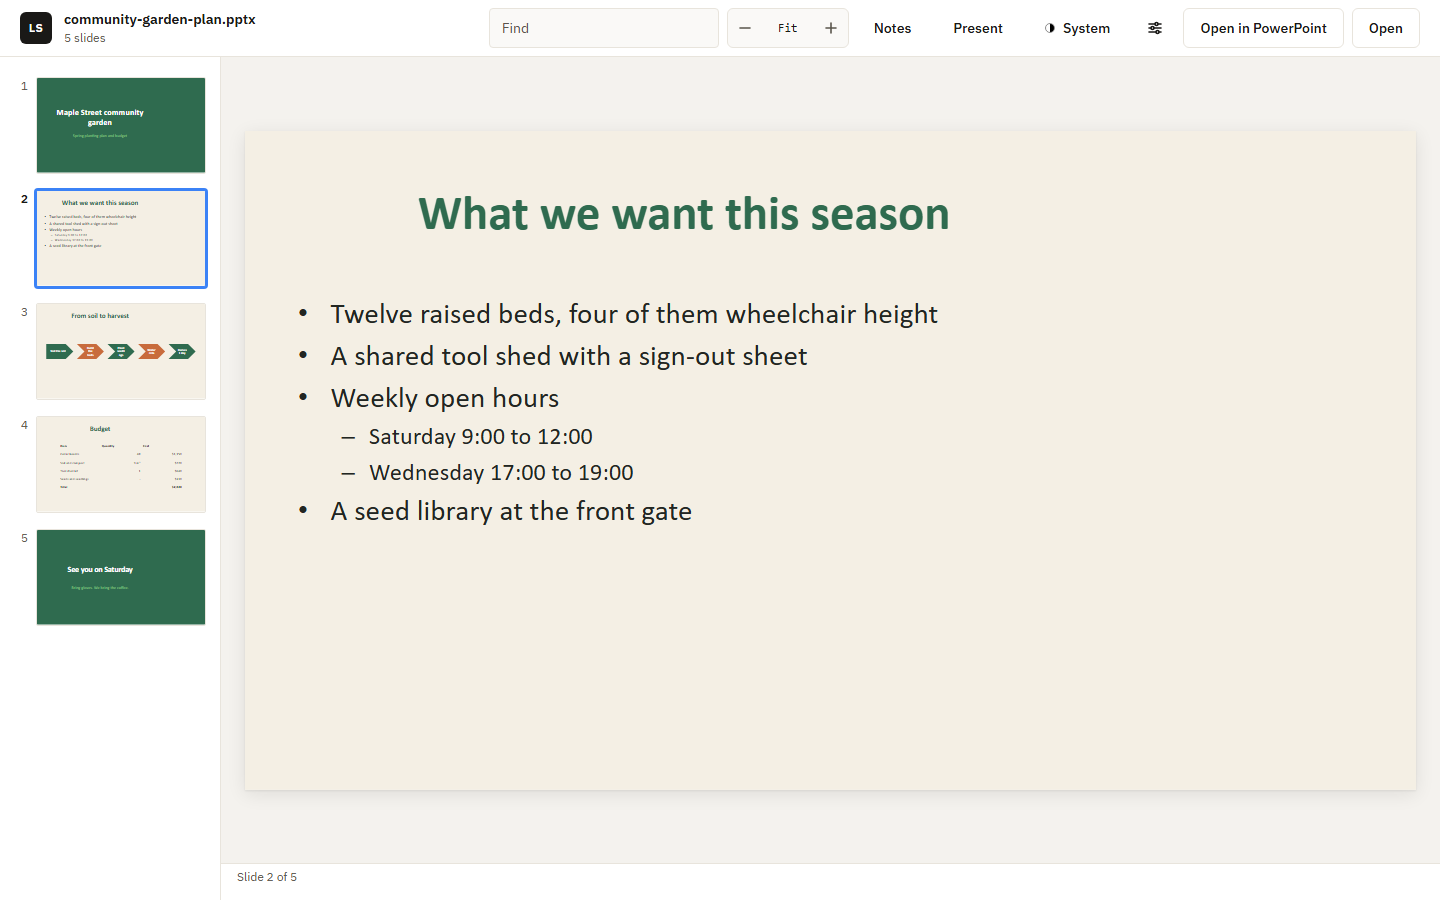
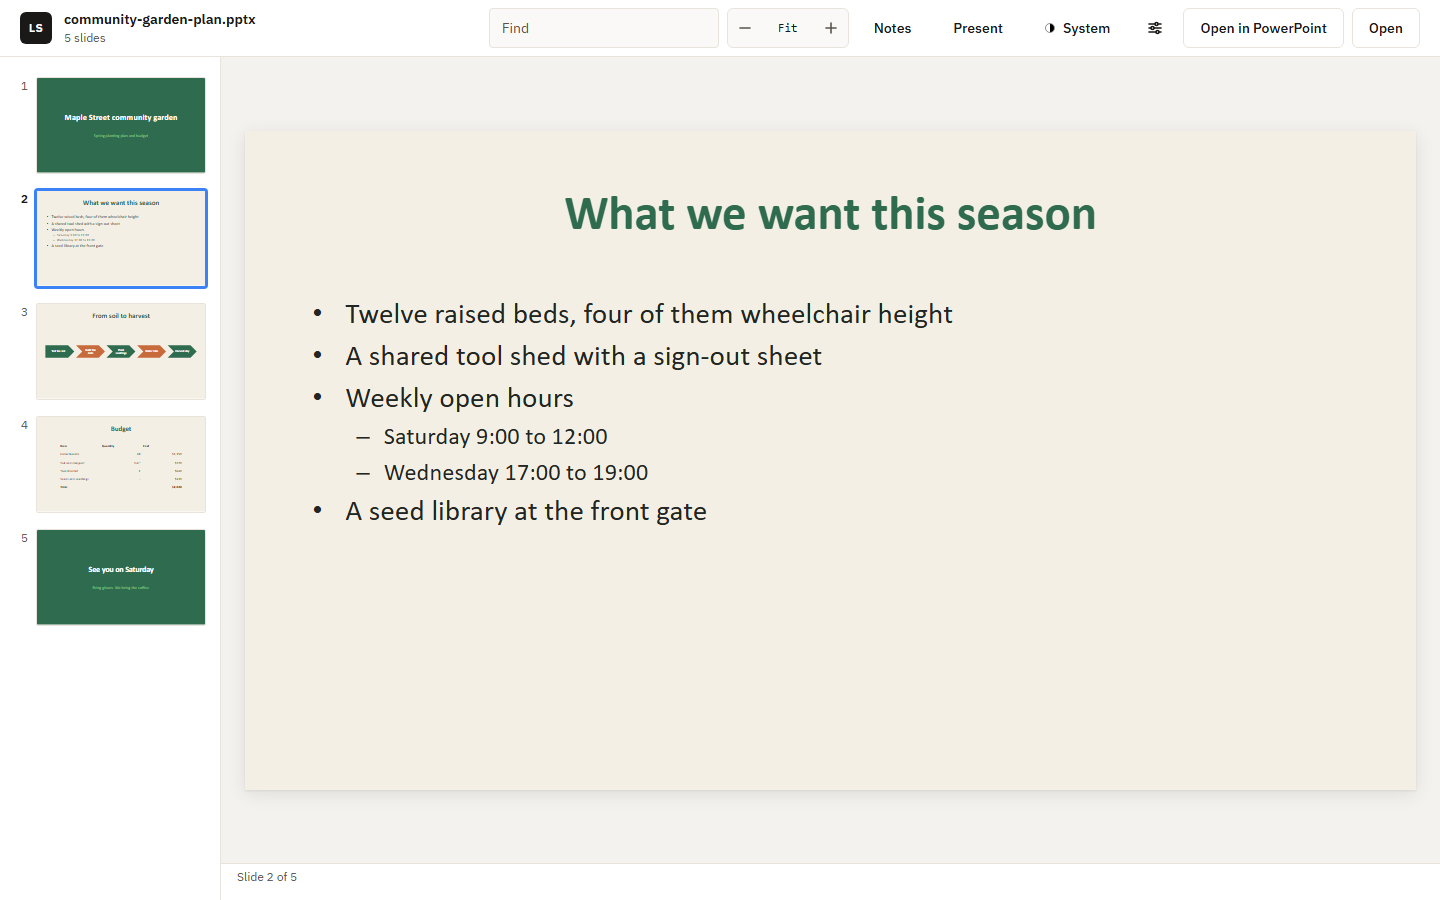
Centre the demo deck's placeholders on the 16:9 slide and close the app normally after a capture
The default python-pptx template is 4:3, so its title and body sat left of centre once the slide was widened. Forcing LeanSlides closed left its WebView2 processes on the profile folder, and the next start could not create its reader.

diff --git a/docs/images/screenshot-source/make-demo-deck.py b/docs/images/screenshot-source/make-demo-deck.py
@@ -22,6 +22,18 @@ CLAY = RGBColor(0xC8, 0x6B, 0x3C)
 deck = Presentation()
 deck.slide_width = Emu(12192000)
 deck.slide_height = Emu(6858000)
+# The default template is 4:3 (9144000 wide). Widen its placeholders to the
+# 16:9 slide, or titles sit left of centre. Layouts go first: a layout
+# placeholder without its own position reads the master's.
+for part in [*deck.slide_layouts, deck.slide_master]:
+    for shape in part.placeholders:
+        # Read all four first: setting one on a placeholder that inherits its
+        # position writes a new position with the others at zero.
+        left, top, width, height = shape.left, shape.top, shape.width, shape.height
+        shape.left = Emu(round(left * 12192000 / 9144000))
+        shape.top = top
+        shape.width = Emu(round(width * 12192000 / 9144000))
+        shape.height = height
 title_layout = deck.slide_layouts[0]
 content_layout = deck.slide_layouts[1]
 title_only = deck.slide_layouts[5]
@@ -85,11 +97,12 @@ background(slide, SAND)
 slide.shapes.title.text = "From soil to harvest"
 style_title(slide.shapes.title)
 steps = ["Test the soil", "Build the beds", "Plant seedlings", "Water rota", "Harvest day"]
-width, height, gap = Emu(1960000), Emu(1100000), Emu(260000)
+# Low, wide arrows leave room for "seedlings" on one line.
+width, height, gap = Emu(2100000), Emu(900000), Emu(120000)
 left = Emu((12192000 - (5 * width + 4 * gap)) // 2)
 for index, step in enumerate(steps):
     x = left + index * (width + gap)
-    shape = slide.shapes.add_shape(MSO_SHAPE.CHEVRON if index else MSO_SHAPE.PENTAGON, x, Emu(2900000), width, height)
+    shape = slide.shapes.add_shape(MSO_SHAPE.CHEVRON if index else MSO_SHAPE.PENTAGON, x, Emu(3000000), width, height)
     shape.fill.solid()
     shape.fill.fore_color.rgb = GREEN if index % 2 == 0 else CLAY
     shape.line.fill.background()
@@ -97,7 +110,7 @@ for index, step in enumerate(steps):
     frame.text = step
     frame.paragraphs[0].alignment = PP_ALIGN.CENTER
     for run in frame.paragraphs[0].runs:
-        run.font.size = Pt(18)
+        run.font.size = Pt(16)
         run.font.bold = True
         run.font.color.rgb = RGBColor(0xFF, 0xFF, 0xFF)
 notes(slide, "Soil test results come back in two weeks. Beds go in the weekend after.")
